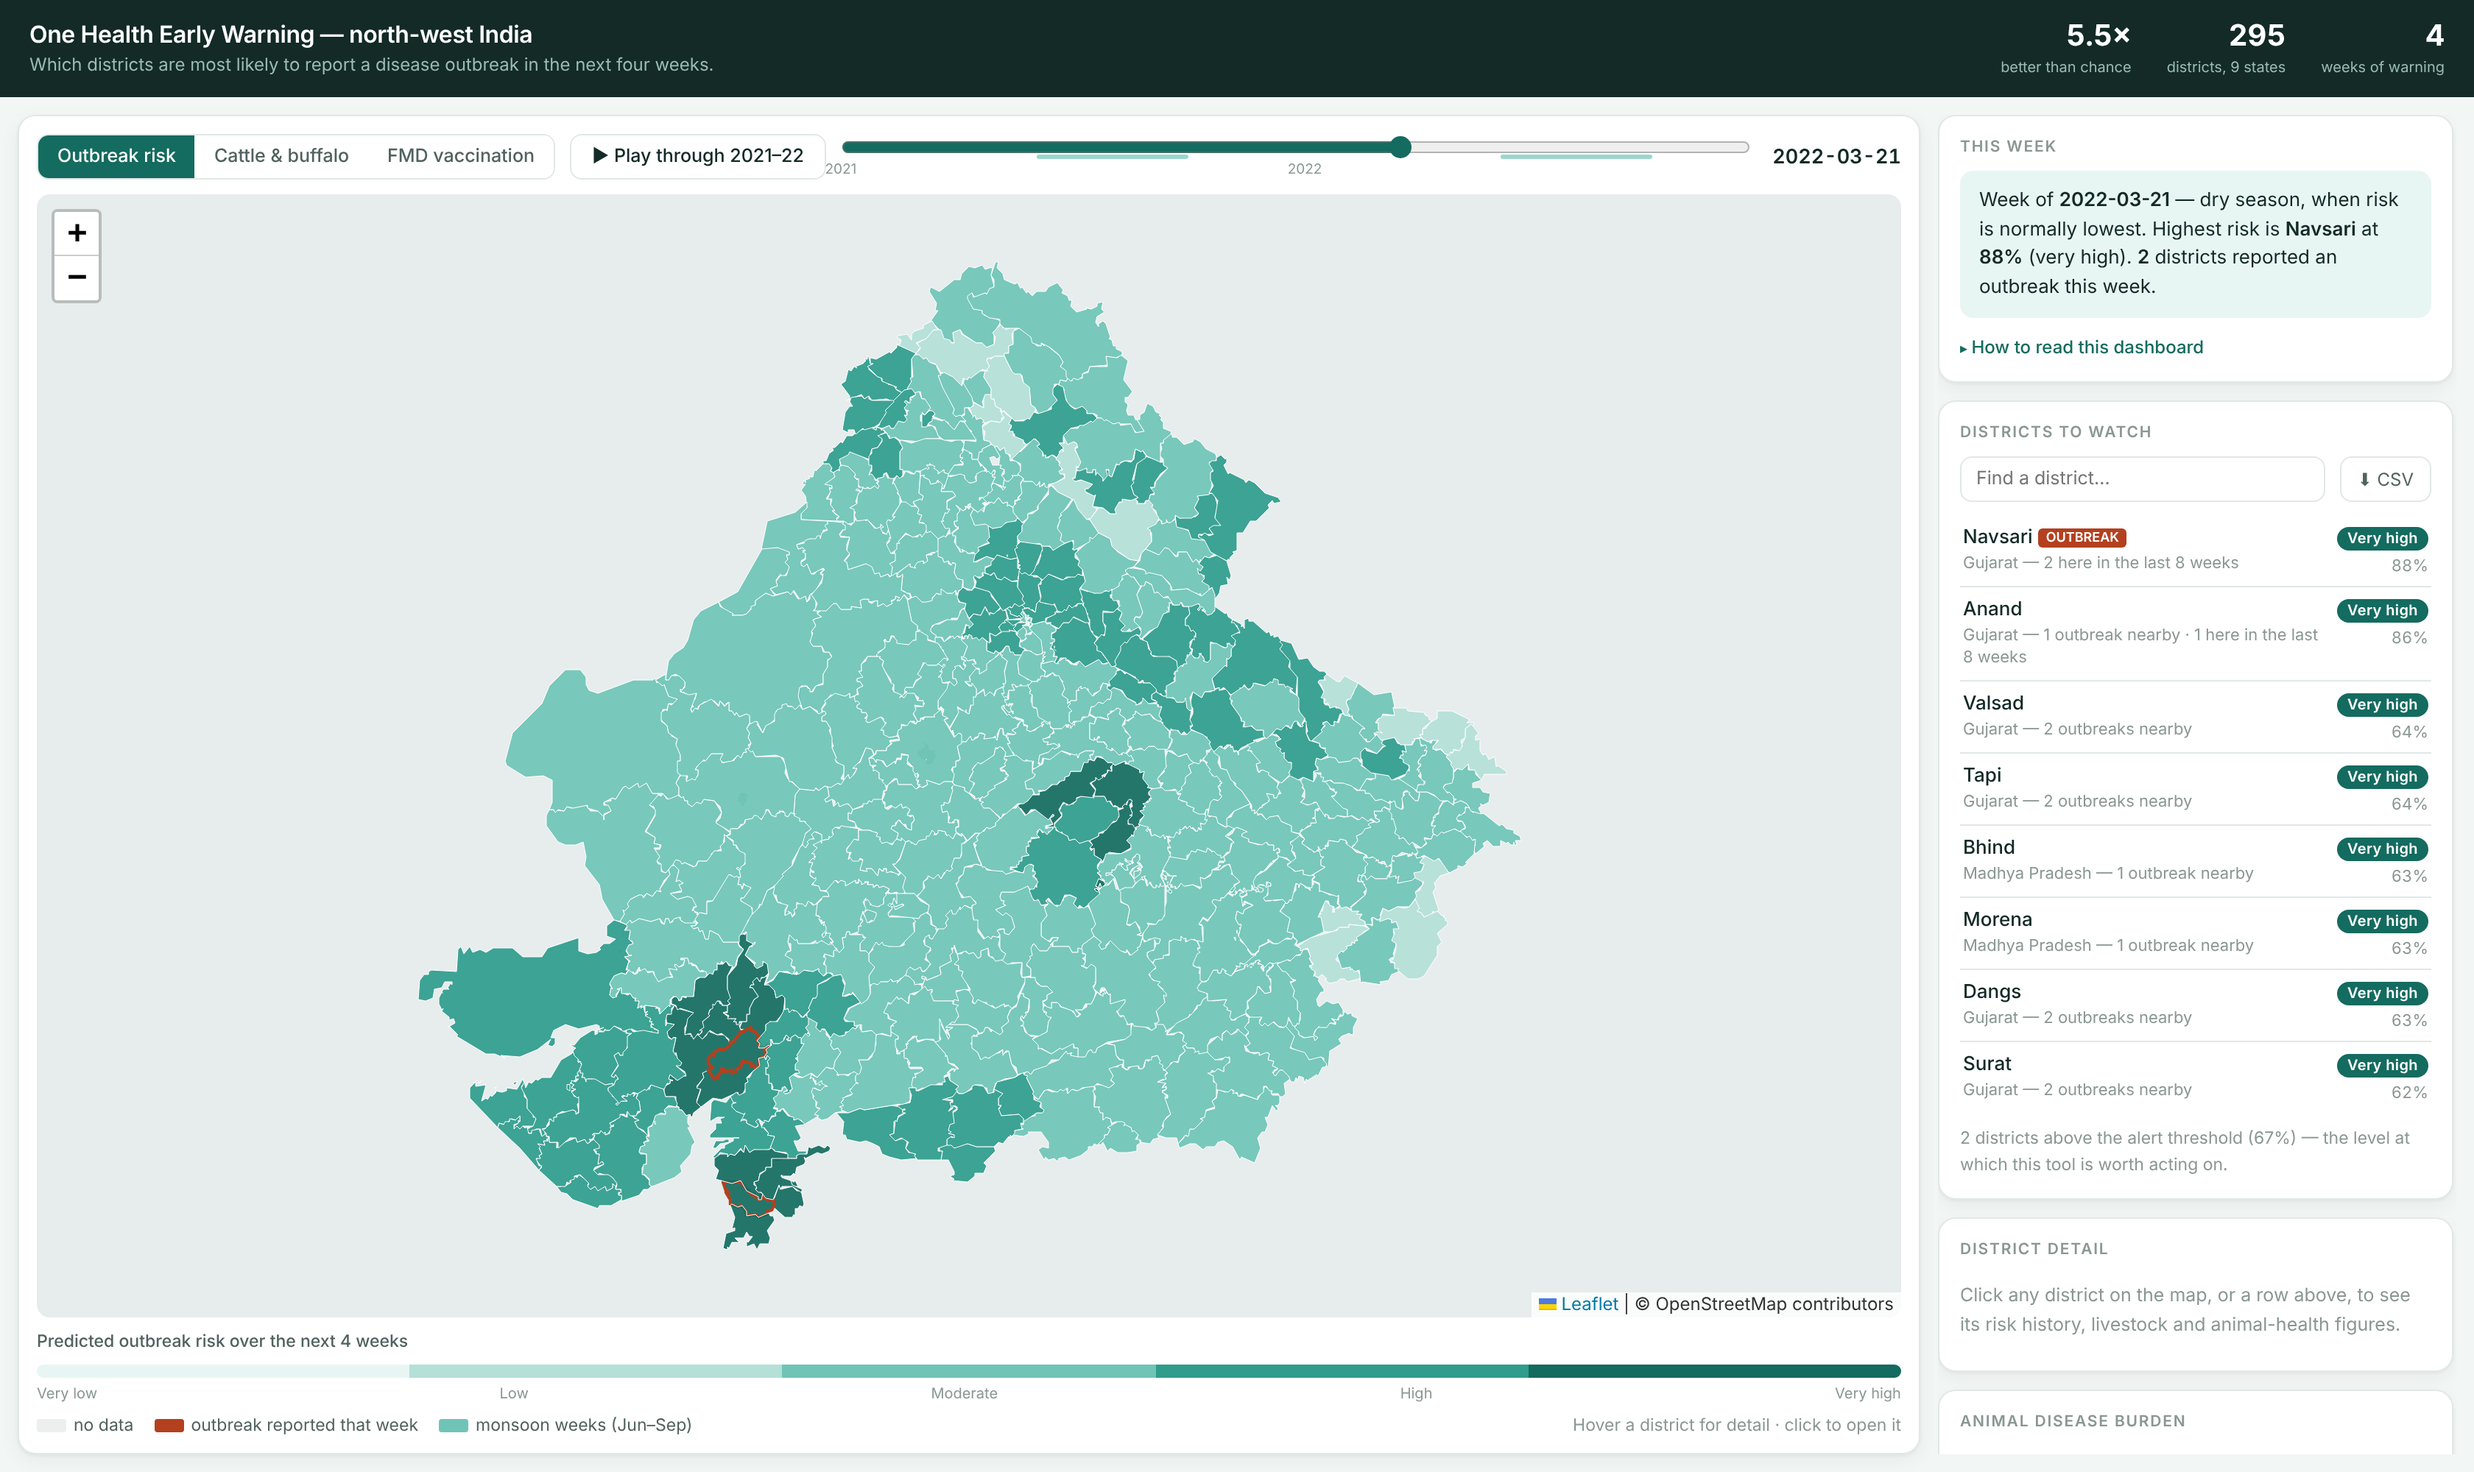
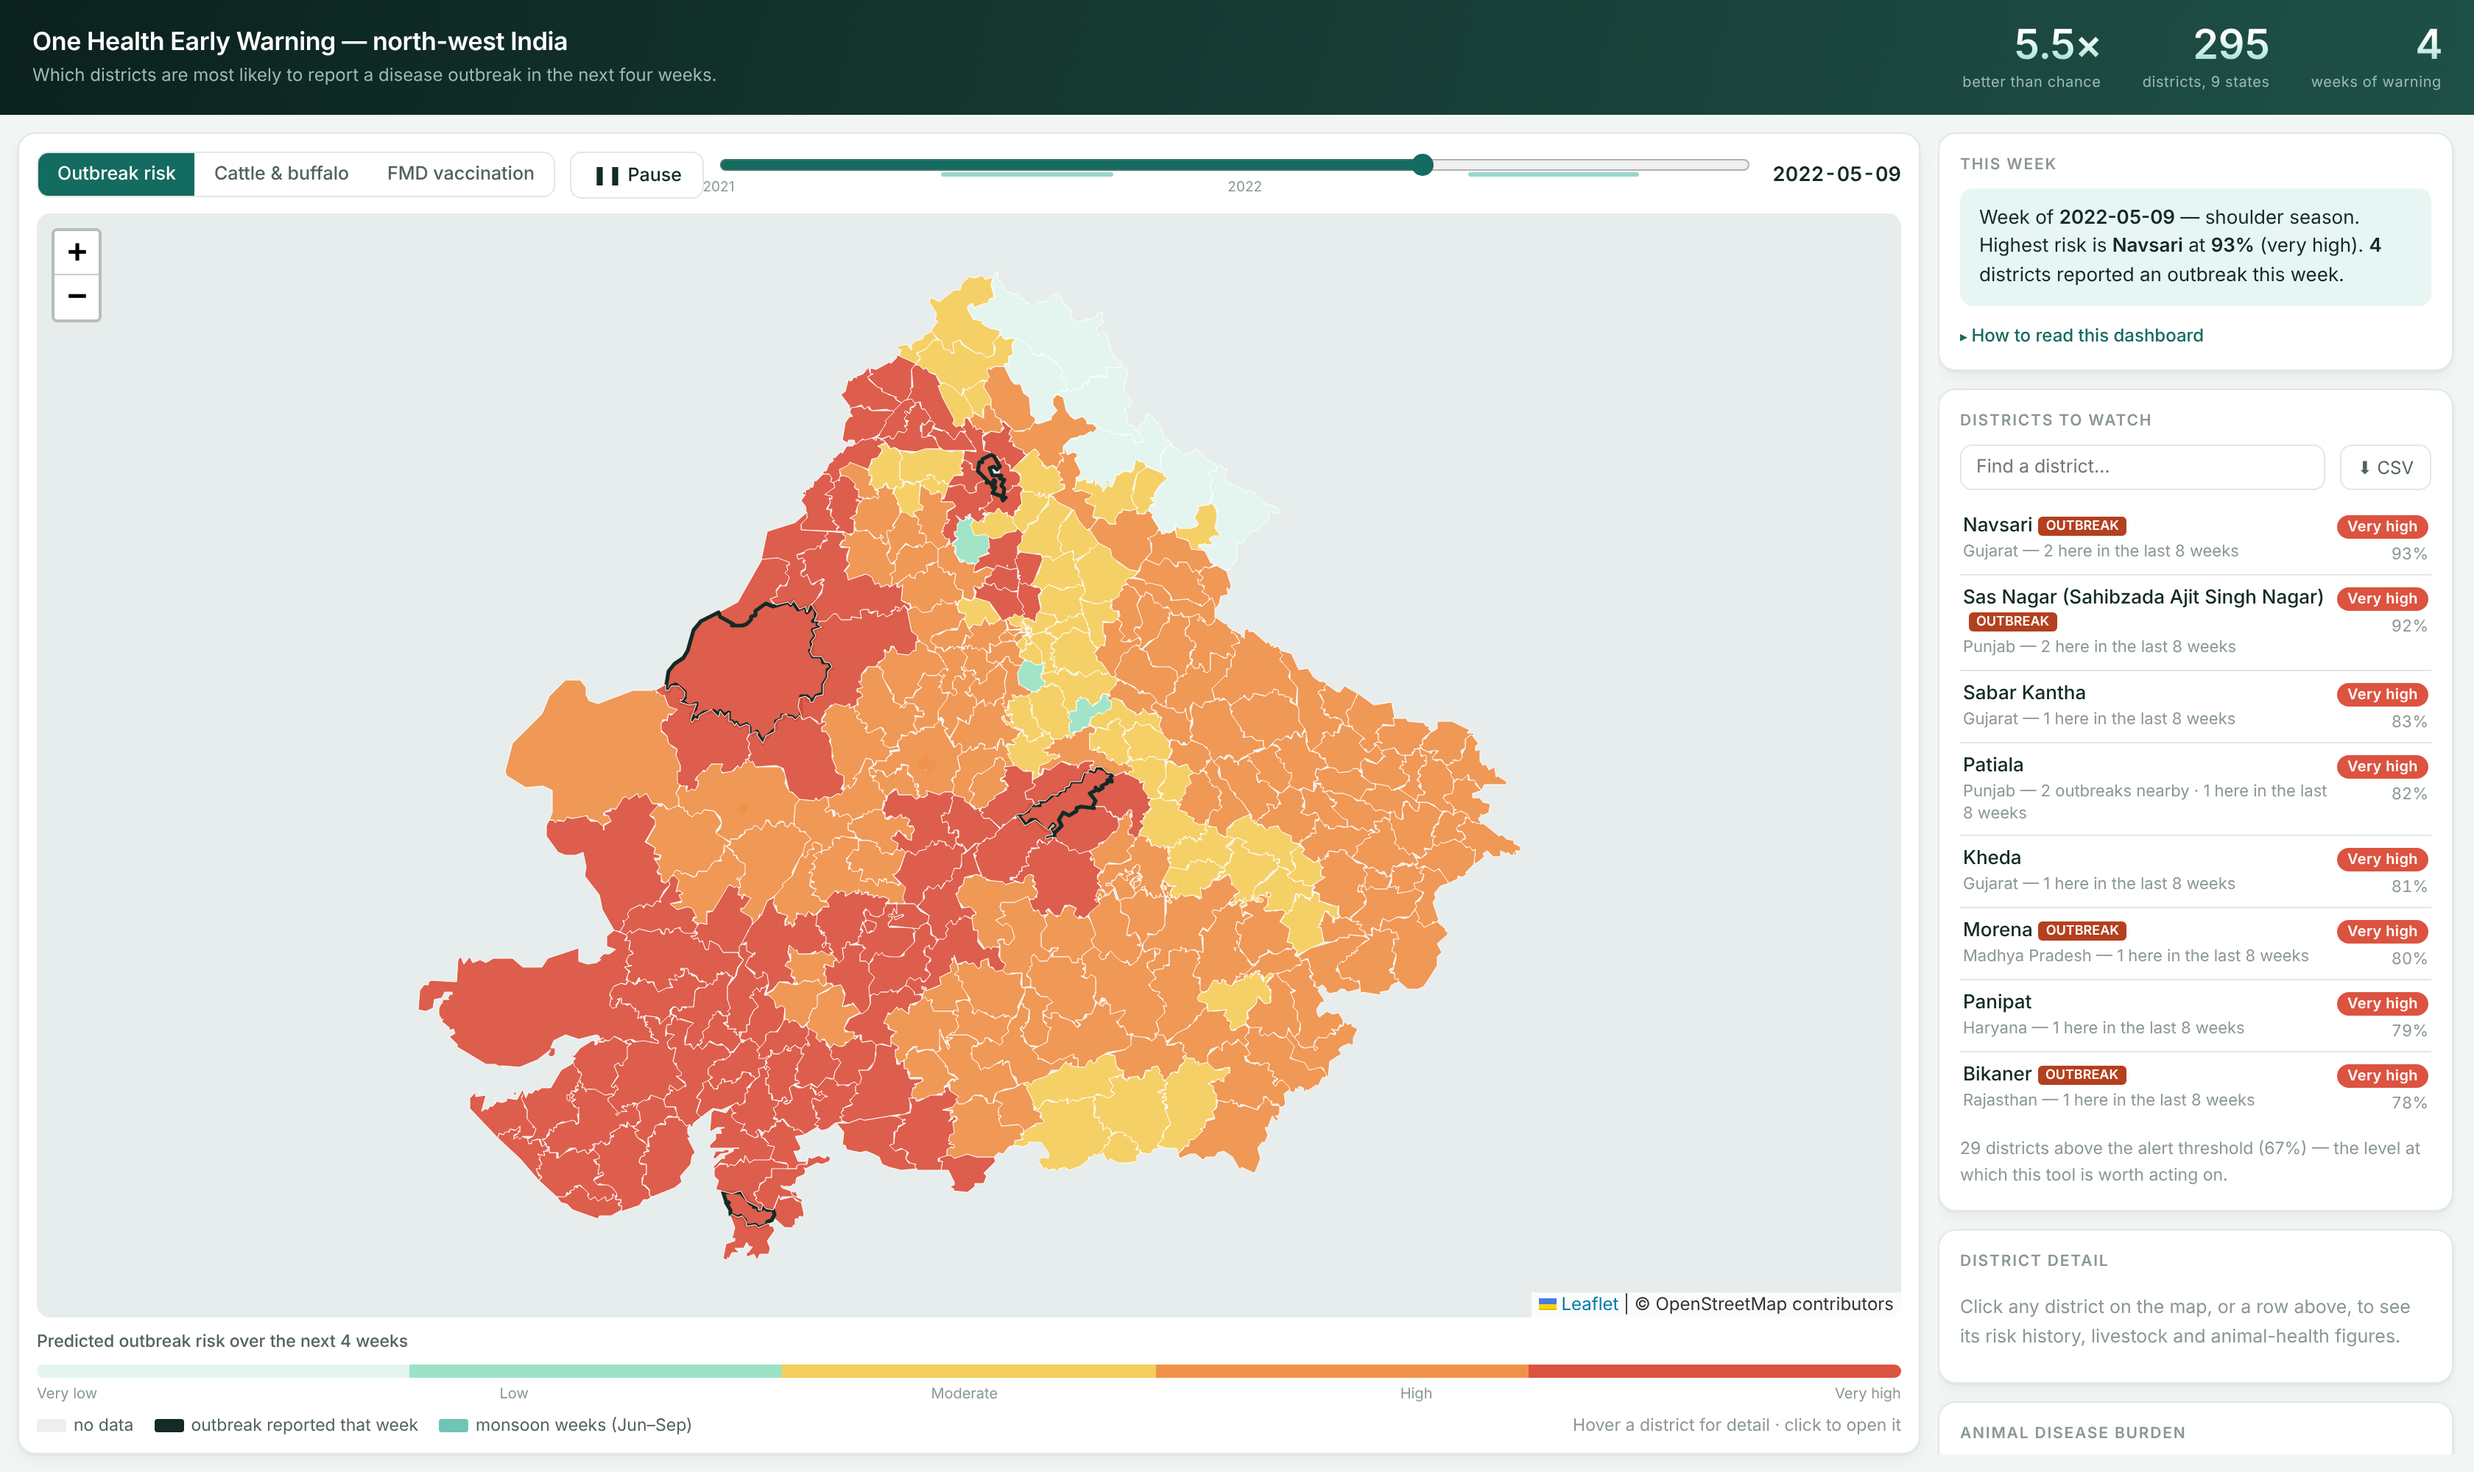
brighter risk ramp, auto-playing timeline, animated README hero, visible demo link

diff --git a/dashboard/index.html b/dashboard/index.html
@@ -19,13 +19,17 @@
   body{font-family:'IBM Plex Sans',ui-sans-serif,system-ui,sans-serif;color:var(--ink);
        background:var(--surface-2);font-size:14px;-webkit-font-smoothing:antialiased;
        display:flex;flex-direction:column}
-  header{background:var(--ink);color:#fff;padding:13px 20px;display:flex;
+  header{background:linear-gradient(104deg,#0B211D 0%,#163A33 48%,#1E5047 100%);
+         color:#fff;padding:15px 22px;display:flex;
          justify-content:space-between;align-items:center;gap:20px;flex-wrap:wrap;flex:none}
-  h1{margin:0;font-size:16px;font-weight:600;letter-spacing:-.2px}
-  .sub{color:#9CBAB4;font-size:12px;margin-top:2px;max-width:780px;line-height:1.45}
-  .hdr{display:flex;gap:24px;text-align:right}
-  .hdr b{font-size:20px;font-variant-numeric:tabular-nums;display:block;line-height:1.15}
-  .hdr span{font-size:10px;color:#9CBAB4}
+  h1{margin:0;font-size:17px;font-weight:600;letter-spacing:-.2px}
+  .sub{color:#9CBAB4;font-size:12px;margin-top:3px;max-width:780px;line-height:1.45}
+  .hdr{display:flex;gap:28px;text-align:right}
+  .hdr b{font-size:28px;font-weight:600;font-variant-numeric:tabular-nums;display:block;
+         line-height:1.1;letter-spacing:-.6px;
+         background:linear-gradient(180deg,#fff 30%,#8FD9C8 100%);
+         -webkit-background-clip:text;background-clip:text;color:transparent}
+  .hdr span{font-size:10px;color:#9CBAB4;letter-spacing:.3px}
 
   .wrap{flex:1;display:grid;grid-template-columns:minmax(0,1fr) 352px;gap:12px;
         padding:12px;min-height:0}
@@ -132,7 +136,7 @@
         <div class="scalelabels" id="scalelabels"></div>
         <div class="keyrow">
           <span><span class="sw" style="background:var(--nodata)"></span>no data</span>
-          <span><span class="sw" style="background:var(--alert)"></span>outbreak reported that week</span>
+          <span><span class="sw" style="background:#132A26"></span>outbreak reported that week</span>
           <span><span class="sw" style="background:var(--b3)"></span>monsoon weeks (Jun–Sep)</span>
           <span style="margin-left:auto;color:var(--ink-3)">Hover a district for detail · click to open it</span>
         </div>
@@ -214,7 +218,10 @@
 
 <script src="https://cdnjs.cloudflare.com/ajax/libs/leaflet/1.9.4/leaflet.min.js"></script>
 <script>
-const RAMP = ['#E8F6F3','#B4E0D8','#6FC4B6','#2F9C8C','#146B5F'];
+// Teal -> green -> amber -> ember. Multi-hue so the top of the scale carries real
+// visual weight, but still monotonic in lightness, so it reads as one ordered scale
+// rather than two competing colours.
+const RAMP = ['#E3F5EF','#9BE3C4','#F5CE5B','#F0914A','#DC5340'];
 const BANDS = ['Very low','Low','Moderate','High','Very high'];
 const LAYERS = {
   risk:    {title:'Predicted outbreak risk over the next 4 weeks',
@@ -247,8 +254,10 @@ const colorFor = v => (v == null || isNaN(v)) ? '#ECEFEE' : RAMP[bandOf(v, mode)
 function style(f) {
   const d = P.districts[key(f)];
   const out = d && d.outbreak[wi];
-  return {fillColor: colorFor(valueFor(d)), fillOpacity: .92,
-          weight: out ? 2.2 : .5, color: out ? '#B3401F' : '#fff'};
+  // Reported outbreaks get a dark halo rather than a red one: red now lives at the
+  // top of the risk ramp, and two reds on one map read as the same thing.
+  return {fillColor: colorFor(valueFor(d)), fillOpacity: .93,
+          weight: out ? 2.6 : .5, color: out ? '#132A26' : '#fff'};
 }
 
 function why(d) {
@@ -558,11 +567,24 @@ Promise.all([
     a.download = `outbreak-risk-${P.weeks[wi]}.csv`;
     a.click(); URL.revokeObjectURL(a.href);
   };
-  document.getElementById('play').onclick = e => {
-    if (timer) { clearInterval(timer); timer = null; e.target.textContent = '▶ Play through 2021–22'; return; }
-    e.target.textContent = '❚❚ Pause';
-    timer = setInterval(() => { wi = (wi + 1) % P.weeks.length; draw(); }, 340);
+  const playBtn = document.getElementById('play');
+  const stopPlay = () => { clearInterval(timer); timer = null; playBtn.textContent = '▶ Play through 2021–22'; };
+  // `once` stops at the end of the series instead of looping. The opening pass uses it:
+  // a map that moves by itself explains the seasonality faster than the caption does,
+  // but one that never stops is impossible to read.
+  const startPlay = (once = false) => {
+    playBtn.textContent = '❚❚ Pause';
+    timer = setInterval(() => {
+      if (once && wi >= P.weeks.length - 1) return stopPlay();
+      wi = (wi + 1) % P.weeks.length;
+      draw();
+    }, 340);
   };
+  playBtn.onclick = () => timer ? stopPlay() : startPlay();
+  // Any interaction means they want to look at something — get out of the way.
+  ['pointerdown', 'keydown'].forEach(ev =>
+    document.addEventListener(ev, () => { if (timer) stopPlay(); }, {once: true}));
+  setTimeout(() => { if (!timer && wi === 0) startPlay(true); }, 900);
 
   const mt = P.meta, lift = mt.hit_rate / mt.base_rate;
   document.getElementById('hdr').innerHTML =

diff --git a/README.md b/README.md
@@ -15,16 +15,23 @@ This builds the layer that does — one weekly table, one model, one map.
 [![Python](https://img.shields.io/badge/python-3.11-3776AB?style=flat-square&logo=python&logoColor=white)](requirements.txt)
 [![Licence](https://img.shields.io/badge/licence-MIT-6A7179?style=flat-square)](#licence)
 
+### 🌐 [onehealth-early-warning.vercel.app](https://onehealth-early-warning.vercel.app)
+
 <sub>Hack4Pashudhan · Track 5 (One Health Dashboard) · PGIVER Jaipur</sub><br>
 <sub>Lakkarsu Nanditha · Ch. Vignesh Reddy</sub>
 
-<img src="docs/dashboard.png" alt="The dashboard: a choropleth of 295 districts coloured by four-week outbreak risk, with a ranked watch list" width="100%">
+<img src="docs/dashboard.gif" alt="The dashboard playing through 2021-22: 295 districts shifting from cool to hot as the monsoon arrives, with a ranked watch list beside the map" width="100%">
+
+<sub>Two years of forecasts in fifteen seconds — the map cools in winter and ignites through the monsoon. Not an animation we drew: that is the model's weekly output, played back.</sub>
 
 </div>
 
 ---
 
 ## The problem
+
+> A district veterinary officer can inspect maybe five places a week.
+> There are 295 districts. Which five?
 
 India runs good disease surveillance. It runs it three times, in parallel, with no join:
 
